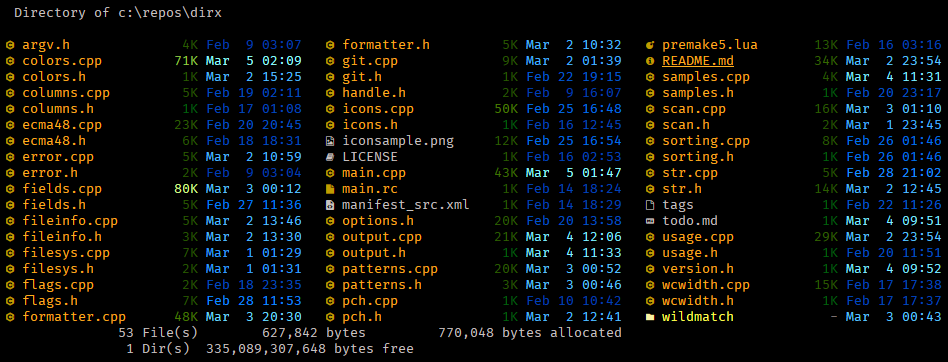
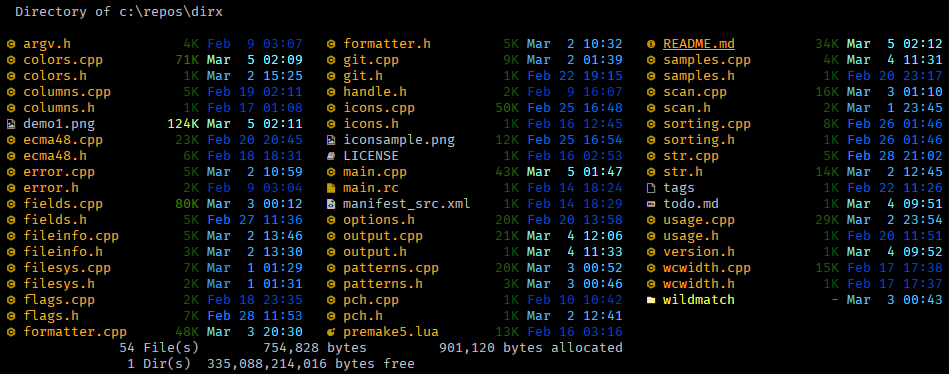
Update demo image and list how it was produced.

Changed region(s): [[0.0, 0.0912, 0.7954, 1.0], [0.8565, 0.0912, 1.0, 0.8812], [0.0, 0.0, 0.2447, 0.0608]]

diff --git a/README.md b/README.md
@@ -2,15 +2,26 @@
 
 Displays a list of file and subdirectories in a directory.
 
-DirX is designed so that most command line options from the CMD `dir` command work the same, to make DirX mostly a drop-in replacement for `dir`.
-
 ![image](demo1.png)
+
+The demo image above was produced using the following:
+
+```batch
+set DIRX_COLORS=di=1;33:ro=32:ro ex=1;32:ex=1:co=35:hi=38;2;204;64;64:sy=38;2;204;64;64:*.zip=36:da=38;5;33:sc=33:bu=33;4
+set DIRX_COLORS=%DIRX_COLORS%:sn=38;5;244:nt=38;2;239;65;54:ng=38;2;252;176;64:nm=38;2;240;230;50:nk=38;2;142;198;64:nb=38;2;1;148;68:sb=38;5;240
+
+set DIRXCMD=--icons --compact -Qv -whjv -Z -k -a-
+
+dirx -f "F19 S D T? G?"
+```
 
 ## Usage
 
 ```
 DIRX [options] [drive:][path][filename]
 ```
+
+DirX is designed so that most command line options from the CMD `dir` command work the same, to make DirX mostly a drop-in replacement for `dir`.
 
 ### Arguments
 
